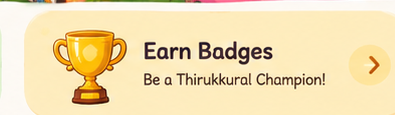
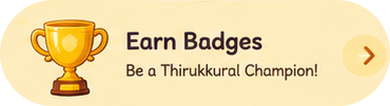
Fix feature cards misalignment: clean transparent pill edges and remove artifacts

diff --git a/src/components/kidsMode.css b/src/components/kidsMode.css
@@ -1044,24 +1044,23 @@
   border: none;
   padding: 0;
   cursor: pointer;
-  border-radius: 20px;
-  overflow: hidden;
   transition: all 0.25s cubic-bezier(0.34, 1.56, 0.64, 1);
-  box-shadow: 0 8px 20px rgba(0, 0, 0, 0.08);
+  filter: drop-shadow(0 6px 14px rgba(0, 0, 0, 0.08));
   display: flex;
+  align-items: center;
+  justify-content: center;
 }
 
 .kids-feature-img-card img {
   width: 100%;
   height: auto;
   display: block;
-  border-radius: 20px;
   object-fit: contain;
 }
 
 .kids-feature-img-card:hover {
-  transform: translateY(-5px) scale(1.03);
-  box-shadow: 0 14px 28px rgba(0, 0, 0, 0.15);
+  transform: translateY(-4px) scale(1.025);
+  filter: drop-shadow(0 10px 20px rgba(0, 0, 0, 0.14));
 }
 
 @media (max-width: 768px) {
